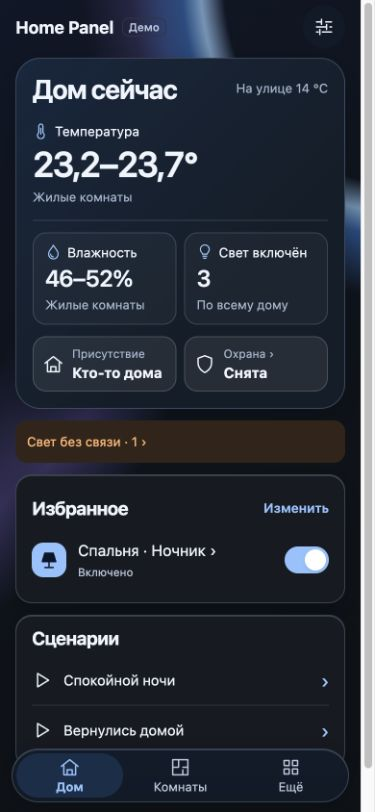
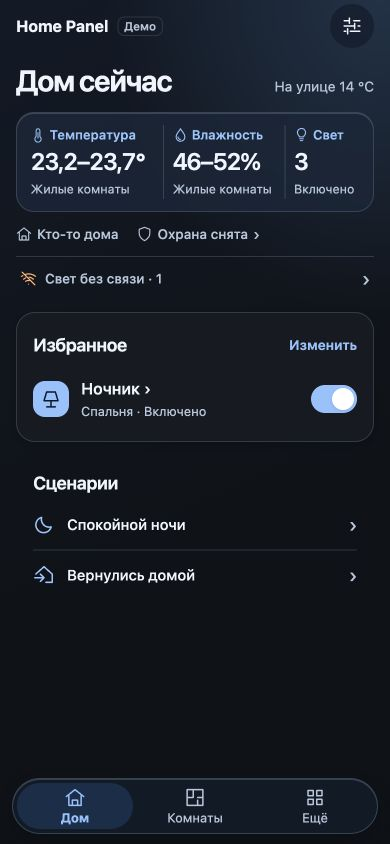
Облегчить сводку дома и выровнять визуальную иерархию на телефоне
Свести показания в одну адаптивную строку, согласовать сводку со светлым и тёмным оформлением, сохранить открытие деталей и подчеркнуть состояние тревоги. Сгруппировать избранный свет по названию и комнате, уточнить пиктограммы сценариев, обновить мобильные снимки и сравнение.

diff --git a/moy-dom.js b/moy-dom.js
@@ -131,6 +131,9 @@ const iconPaths = {
   power: "M14 2 5 14h6l-1 8 9-13h-6z",
   settings: "M3 6h6m5 0h7 M3 12h11m5 0h2 M3 18h2m5 0h11 M9 3v6m6 0v6M7 15v6",
   presence: "M2 11l10-8 10 8 M5 10v11h14V10 M9 21v-6h6v6",
+  offline: "M3 3l18 18 M2 9l2-1m4-2a16 16 0 0 1 14 3 M5 13a11 11 0 0 1 3-2m5-1a12 12 0 0 1 6 3 M8 16a6 6 0 0 1 5-1 M12 20h.01",
+  "mdi:weather-night": "M19.8 14.6A8.5 8.5 0 0 1 9.4 4.2 8.5 8.5 0 1 0 19.8 14.6z",
+  "mdi:home-import-outline": "M3 11 12 3l9 8v9h-7 M8 11l4 4-4 4 M12 15H2",
   shield: "M12 2l8 3v6c0 5-4 9-8 11-4-2-8-6-8-11V5z",
   scene: "M7 4l13 8-13 8z",
   rooms: "M3 3h18v18H3z M3 12h7m0-9v9m5 3v6m0-9h6",
@@ -341,6 +344,7 @@ class MoyDomPanel extends HTMLElement {
     const rooms = this.zones.flatMap(zone => zone.rooms);
     const metric = (name, icon, open, read, featured = false) => {
       const cell = button("", open, "home-metric" + (featured ? " featured" : ""));
+      cell.dataset.kind = icon;
       const label = element("span", "metric-label", name);
       label.prepend(pictogram(icon));
       const value = element("strong");
@@ -349,8 +353,10 @@ class MoyDomPanel extends HTMLElement {
       strip.append(cell);
       this.bindings.push(() => {
         const [reading, caption] = this.connected ? read() : ["—", "Нет связи"];
+        value.classList.toggle("word-value", reading === "По комнатам");
         setText(value, reading);
         setText(note, caption);
+        if (icon === "lights") cell.setAttribute("aria-label", "Свет по всему дому · " + reading + " · " + caption);
       });
     };
     for (const [key, name, icon, suffix] of [["temperature", "Температура", "climate", "°"], ["humidity", "Влажность", "humidity", "%"]]) {
@@ -369,10 +375,10 @@ class MoyDomPanel extends HTMLElement {
       }, key === "temperature");
     }
     const lights = [...this.allLights.values()];
-    if (lights.length) metric("Свет включён", "lights", () => this.openLights(lights), () => {
+    if (lights.length) metric("Свет", "lights", () => this.openLights(lights), () => {
       const states = lights.map(({id}) => this.state(id)?.state);
       const known = states.some(state => state === "on" || state === "off");
-      return [known ? String(states.filter(state => state === "on").length) : "—", known ? "По всему дому" : "Нет показаний"];
+      return [known ? String(states.filter(state => state === "on").length) : "—", known ? "Включено" : "Нет показаний"];
     });
     if (this.config.power_meter) metric(this.config.power_scope === "home" ? "Мощность дома" : "Мощность прибора", "power", () => this.moreInfo(this.config.power_meter), () => {
       const meter = this.state(this.config.power_meter);
@@ -389,7 +395,7 @@ class MoyDomPanel extends HTMLElement {
       const empty = element("p", "muted");
       list.append(empty);
       const rows = lights.map(({id, name, room}) => {
-        const row = this.lightView(id, room + " · " + name, "", false);
+        const row = this.lightView(id, name, room, false);
         list.append(row);
         return {id, row};
       });
@@ -426,7 +432,7 @@ class MoyDomPanel extends HTMLElement {
     if (presence) {
       const value = element("strong");
       const item = element("div", "status-item");
-      item.append(pictogram("presence"), element("span", "", "Присутствие"), value);
+      item.append(pictogram("presence"), element("span", "sr-only", "Присутствие"), value);
       statuses.append(item);
       this.bindings.push(() => {
         const state = this.connected && this.state(presence)?.state;
@@ -436,14 +442,16 @@ class MoyDomPanel extends HTMLElement {
     if (alarm) {
       const item = button("", () => this.moreInfo(alarm), "status-item");
       const value = element("strong");
-      item.append(pictogram("shield"), element("span", "", "Охрана ›"), value);
+      item.append(pictogram("shield"), value, element("span", "chevron", "›"));
       statuses.append(item);
-      const labels = { disarmed:"Снята", armed_away:"Под охраной", armed_home:"Охрана дома",
+      const labels = { disarmed:"Охрана снята", armed_away:"Под охраной", armed_home:"Охрана дома",
         armed_night:"Ночная охрана", armed_vacation:"В отпуске", armed_custom_bypass:"Частичная охрана",
         arming:"Постановка", disarming:"Снятие", pending:"Задержка входа", triggered:"Тревога" };
       this.bindings.push(() => {
         const entity = this.state(alarm);
         setText(value, this.connected && available(entity) ? labels[entity.state] || entity.state : "Нет данных");
+        item.setAttribute("aria-label", "Состояние охраны · " + value.textContent);
+        item.classList.toggle("alarm-active", this.connected && entity?.state === "triggered");
         item.disabled = !this.connected || !entity;
       });
     }
@@ -451,10 +459,12 @@ class MoyDomPanel extends HTMLElement {
     main.append(hero);
     const lights = [...this.allLights.values()];
     const issues = button("", () => this.openLights(lights, true), "issues");
+    const problem = element("span");
+    issues.append(pictogram("offline"), problem, element("span", "chevron", "›"));
     this.bindings.push(() => {
       const count = lights.filter(({id}) => !["on", "off"].includes(this.state(id)?.state)).length;
       issues.hidden = !this.connected || !count;
-      setText(issues, "Свет без связи · " + count + "  ›");
+      setText(problem, "Свет без связи · " + count);
     });
     main.append(issues);
     if (lights.length || this.quick.length) {
@@ -466,17 +476,18 @@ class MoyDomPanel extends HTMLElement {
       const ids = this.favoriteIds(catalog);
       for (const id of ids) {
         const {room, name} = catalog.get(id);
-        favorites.append(this.lightView(id, room ? room + " · " + name : name, "", false));
+        favorites.append(this.lightView(id, name, room, false));
       }
       if (!ids.length) favorites.append(element("p", "muted", "Закрепите светильники для быстрого доступа."));
       side.append(favorites);
     }
     if (this.config.home_scenes?.length) {
-      const scenes = element("section", "room");
+      const scenes = element("section", "room scenes");
       scenes.append(element("h2", "", "Сценарии"));
       for (const [id, name] of this.config.home_scenes) {
         const row = button("", () => this.moreInfo(id), "detail-row");
-        row.append(pictogram("scene"), element("span", "scene-name", name), element("span", "chevron", "›"));
+        const icon = this.state(id)?.attributes?.icon;
+        row.append(pictogram(iconPaths[icon] ? icon : "scene"), element("span", "scene-name", name), element("span", "chevron", "›"));
         scenes.append(row);
         this.bindings.push(() => { row.disabled = !this.connected || !this.state(id) || this.state(id).state === "unavailable"; });
       }
@@ -678,7 +689,7 @@ class MoyDomPanel extends HTMLElement {
     this.dispatchEvent(new CustomEvent("hass-more-info", { detail: { entityId }, bubbles: true, composed: true }));
   }
 
-  lightView(id, name, roomName, showDimmer = true) {
+  lightView(id, name, roomName, inRoom = true) {
     const wrapper = element("div", "device");
     const row = element("div", "light-row");
     const label = element("div", "light-label");
@@ -694,7 +705,7 @@ class MoyDomPanel extends HTMLElement {
     custom.hidden = true;
     icon.append(fallback, custom);
     const details = button("", () => this.moreInfo(id), "device-details");
-    details.setAttribute("aria-label", name + " — подробности");
+    details.setAttribute("aria-label", [roomName, name, "подробности"].filter(Boolean).join(" — "));
     details.append(icon, element("span", "", name + " ›"), state);
     label.append(details, toggle);
     row.append(label);
@@ -738,10 +749,11 @@ class MoyDomPanel extends HTMLElement {
       icon.classList.toggle("lit", this.connected && on);
       toggle.checked = on;
       toggle.disabled = !this.connected || !available(entity) || pending;
-      setText(state, pending ? "Ожидание ответа" : !this.connected ? "Нет связи" : !available(entity) ? "Недоступно" : on ? "Включено" : "Выключено");
+      const status = pending ? "Ожидание ответа" : !this.connected ? "Нет связи" : !available(entity) ? "Недоступно" : on ? "Включено" : "Выключено";
+      setText(state, !inRoom && roomName ? roomName + " · " + status : status);
       const modes = entity?.attributes?.supported_color_modes;
       const dimmable = domainOf(id) === "light" && Array.isArray(modes) && modes.some(mode => ["brightness", "color_temp", "hs", "xy", "rgb", "rgbw", "rgbww", "white"].includes(mode));
-      dimmer.hidden = !showDimmer || !dimmable || !on || !available(entity);
+      dimmer.hidden = !inRoom || !dimmable || !on || !available(entity);
       range.disabled = !this.connected || pending;
       if (this.shadowRoot.activeElement !== range || pending) {
         const brightness = numeric(entity?.attributes?.brightness);
@@ -1190,34 +1202,97 @@ dialog::backdrop {background:#0b111ab5}
 .favorite-option input {accent-color:var(--olive);width:20px;height:20px}
 dialog .primary {margin-top:14px}
 .home-grid .room,.room-console > .lighting,.room-console > .climate-card {background:var(--paper)}
-.home-grid .hero {border-radius:26px;padding:clamp(18px,3vw,30px);border:1px solid var(--edge);
-  background:linear-gradient(135deg,#1a2c46,#15202e 65%);box-shadow:0 12px 32px var(--shade)}
-.home-grid h1 {font-size:clamp(1.75rem,3vw,2.5rem)}
-.home-readings {display:grid;grid-template-columns:repeat(2,minmax(0,1fr));gap:8px;margin:20px 0 12px}
-.home-metric {display:grid;align-content:start;justify-items:start;gap:5px;text-align:left;min-width:0;padding:11px 12px;border:1px solid #adbfdc38;border-radius:14px;color:var(--hero-text);background:#ffffff09}
-.home-metric:hover,.status-item:is(button):hover {background:#ffffff15}
-.home-metric .metric-label {display:flex;align-items:center;gap:6px;font-size:.86rem}
-.metric-label .pictogram {width:17px;height:17px;color:#a9ceff}
-.home-metric small {font-size:.81rem;color:var(--hero-muted);line-height:1.35}
-.home-metric strong {font-size:clamp(1.5rem,4vw,2rem);font-weight:560;line-height:1.15;letter-spacing:-.035em;font-variant-numeric:tabular-nums;overflow-wrap:anywhere}
-.home-metric.featured {grid-column:1/-1;background:transparent;border:0;border-bottom:1px solid #adbfdc38;border-radius:0;padding:0 0 15px;margin-bottom:4px}
-.home-metric.featured strong {font-size:clamp(2.25rem,8vw,3.25rem);font-weight:520;letter-spacing:-.05em}
-.home-metric:not(.featured):last-child:nth-child(4) {grid-column:1/-1}
-.home-grid .home-status {margin:12px 0 0}
-.home-grid .hero .weather {font-size:.82rem}
-.room-console .climate-card p + p {margin-top:6px}
-.issues {display:block;width:100%}
-@media(max-width:780px) {
-  .toolbar {min-height:56px;margin-bottom:4px}
-  .home-grid .hero {padding:17px}
-  .navigation button {font-size:.8rem}
-  .home-grid .room {padding:12px 16px}
+/* The summary reads as one instrument. The surrounding actions have their own surfaces. */
+.shell {
+  --summary-fill:rgb(255 255 255 / .8); --summary-rule:rgb(57 82 121 / .19);
+  --summary-ink:#16253e; --summary-note:#435671; --summary-blue:#255f9d;
+  background-image:radial-gradient(ellipse 84% 45% at 97% 0%,#bfd6f0 0%,transparent 83%),
+    linear-gradient(160deg,#e9eff8,var(--surface) 66%);
 }
-.home-status {display:grid;grid-template-columns:repeat(auto-fit,minmax(min(125px,100%),1fr));gap:8px;margin:16px 0}
-.status-item {display:grid;grid-template-columns:22px 1fr;align-content:center;align-items:center;gap:4px 8px;text-align:left;padding:10px;
-  background:rgb(255 255 255 / .07);border:1px solid rgb(255 255 255 / .17);border-radius:14px;color:var(--hero-text)}
-.status-item svg {grid-row:span 2}.status-item span {font-size:.75rem;color:var(--hero-muted)}
-.status-item strong {font-size:.94rem}.scene-name {flex:1}
+.shell[data-theme=dark] {
+  --summary-fill:rgb(29 43 63 / .85); --summary-rule:rgb(207 224 248 / .17);
+  --summary-ink:#f2f6ff; --summary-note:#c0cde0; --summary-blue:#a6ccff;
+  background-image:radial-gradient(ellipse 84% 45% at 97% 0%,#263951 0%,transparent 83%),
+    linear-gradient(155deg,#121b2b,var(--surface) 67%);
+}
+.home-grid .hero {padding:0;border:0;border-radius:0;background:transparent;color:var(--ink)}
+.hero-row {align-items:baseline;flex-wrap:wrap;gap:4px 12px}
+.hero-row:first-child {align-items:baseline}
+.home-grid h1 {font-size:clamp(1.85rem,3vw,2.45rem);font-weight:630;letter-spacing:-.045em;line-height:1.12}
+.home-grid .weather {color:var(--summary-note);font-size:.86rem;margin:0}
+.home-readings {
+  display:grid;grid-auto-columns:minmax(0,1fr);grid-auto-flow:column;align-items:stretch;
+  margin-top:15px;padding:12px 5px;border:1px solid var(--summary-rule);border-radius:18px;
+  background:var(--summary-fill);color:var(--summary-ink);box-shadow:inset 0 1px 0 var(--shine);
+  container-type:inline-size;
+}
+.home-readings:empty {display:none}
+.home-readings:has(.featured):has(> :nth-child(3)) {grid-template-columns:minmax(0,1.35fr) minmax(0,1.16fr) minmax(0,.80fr)}
+.home-readings:has(> :nth-child(4)) {grid-auto-flow:row;row-gap:10px}
+.home-readings > :nth-child(4) {grid-column:1/-1}
+.home-metric {
+  display:grid;justify-items:start;align-content:start;min-width:0;gap:5px;min-height:48px;
+  padding:2px clamp(6px,2.5cqw,16px);border:0;text-align:left;background:transparent;
+}
+.home-metric + .home-metric {border-inline-start:1px solid var(--summary-rule)}
+.home-metric:nth-child(4) {grid-template-columns:auto 1fr;align-items:baseline;column-gap:12px;
+  border:0;border-top:1px solid var(--summary-rule);padding-top:10px}
+.home-metric:nth-child(4) small {grid-column:1/-1}
+.metric-label {display:flex;align-items:center;gap:4px;color:var(--summary-blue);font-size:.81rem;font-weight:550;line-height:1.2}
+.metric-label .pictogram {width:15px;height:15px}
+.home-metric strong {font-size:clamp(1.2rem,6.8cqw,1.75rem);font-variant-numeric:tabular-nums;
+  letter-spacing:-.047em;font-weight:570;line-height:1.2;overflow-wrap:anywhere}
+.home-metric strong.word-value {font-size:1rem;letter-spacing:0}
+.home-metric[data-kind=lights] {padding-inline-end:2px}
+.home-metric small {font-size:.77rem;line-height:1.3;color:var(--summary-note);overflow-wrap:anywhere}
+.home-status {display:flex;align-items:center;flex-wrap:wrap;gap:0 18px}
+.status-item {display:inline-flex;align-items:center;gap:5px;border:0;background:transparent;
+  padding:0;min-height:44px;color:var(--summary-note);font-size:.84rem;text-align:left}
+.status-item .pictogram {height:16px;width:16px}
+.status-item strong {font-weight:500}.status-item .chevron {color:inherit;font-size:1rem}
+.status-item.alarm-active {color:var(--warn);font-weight:700}
+.issues {display:flex;align-items:center;gap:8px;width:100%;background:transparent;color:var(--summary-note);
+  border-top:1px solid var(--summary-rule);border-radius:0;font-weight:500;padding:0 4px;min-height:44px}
+.issues .pictogram {width:17px;height:17px;color:var(--warn)}
+.issues .chevron {margin-left:auto;color:var(--summary-note)}
+.home-grid > .stack:first-child {gap:0}
+.home-grid > .stack + .stack {gap:18px}
+.home-grid .room {border:1px solid var(--summary-rule);box-shadow:0 2px 10px var(--shade);border-radius:19px;padding:12px 18px}
+.home-grid .room h2 {font-size:1.12rem;font-weight:620;letter-spacing:-.025em}
+.home-grid .room > h2 {margin:5px 0 6px}
+.home-grid .room .device-details {font-weight:550}
+.home-grid .room .device-state {font-size:.8rem;font-weight:400}
+.home-grid .detail-row {border:0;min-height:50px;font-weight:500}
+.home-grid .detail-row + .detail-row {border-top:1px solid var(--line)}
+.home-grid .detail-row > .pictogram {color:var(--summary-blue);width:22px;height:22px}
+.home-grid .scene-name {flex:1}
+.home-grid .room.scenes {background:transparent;border-color:transparent;box-shadow:none;backdrop-filter:none;-webkit-backdrop-filter:none}
+.home-grid .scenes > h2 {margin-bottom:6px}
+.home-grid .device-icon.lit .pictogram {fill:none}
+.home-grid .detail-row .chevron {color:var(--muted)}
+.room-console .climate-card p + p {margin-top:6px}
+@media(hover:hover) {
+  .home-metric:hover,.status-item:is(button):hover,.issues:hover {background:var(--accent);border-radius:8px}
+}
+@media(max-width:780px) {
+  .toolbar {min-height:52px;margin-bottom:12px}
+  .toolbar > strong {font-size:1rem}
+  .navigation button {font-size:.8rem}
+  .home-grid > .stack + .stack {gap:14px}
+  .home-grid .room {padding:10px 16px}
+}
+@media(max-width:355px) {
+  .home-readings:has(.featured):has(> :nth-child(3)) {grid-template-columns:minmax(0,1.26fr) minmax(0,1fr) minmax(4.8rem,.82fr)}
+}
+@container (max-width:300px) {
+  .metric-label .pictogram {display:none}
+  .home-metric {padding-inline:4px}
+  .home-metric small {font-size:.75rem}
+  .home-metric strong {font-size:1rem}
+}
+@media(prefers-reduced-transparency:reduce),(prefers-contrast:more) {
+  .shell,.shell[data-theme=dark] {--summary-fill:var(--paper);background:var(--surface)}
+}
 @media(prefers-reduced-motion:reduce) {.switch::before {transition:none}}
 `;
 

diff --git a/demo/demo.js b/demo/demo.js
@@ -61,8 +61,8 @@ add("switch.desk_outlet", "Розетка у стола", "off", "living");
 add("button.restart_sensor", "Перезапустить датчик", "unknown", "hall");
 add("cover.bedroom_blinds", "Шторы спальни", "closed", "bedroom");
 add("binary_sensor.occupied", "Присутствие", "on", null);
-add("scene.night", "Спокойной ночи", "unknown", null);
-add("scene.arrival", "Вернулись домой", "unknown", null);
+add("scene.night", "Спокойной ночи", "unknown", null, {icon:"mdi:weather-night"});
+add("scene.arrival", "Вернулись домой", "unknown", null, {icon:"mdi:home-import-outline"});
 add("scene.evening", "Вечерний свет", "unknown", null);
 add("script.goodnight", "Спокойной ночи", "off", null);
 add("sun.sun", "Солнце", "above_horizon", null);
@@ -160,5 +160,6 @@ card.addEventListener("hass-more-info", event => {
   } else if (state.entity_id === "alarm_control_panel.home") {
     details.querySelector("p").textContent = "Охрана снята. Это демонстрация статуса Alarmo.";
   }
+  details.dataset.theme = panel.theme;
   details.showModal();
 });

diff --git a/demo/index.html b/demo/index.html
@@ -11,6 +11,10 @@
     moy-dom-dashboard, moy-dom-panel { display: block; min-height: 100dvh; }
     dialog { max-width: calc(100% - 24px); border: 0; border-radius: 12px; padding: 20px; }
     #details {width:min(360px,calc(100% - 24px));font:inherit;color:#f3f6fa;background:#202b3c;border:1px solid #657083;border-radius:18px;}
+    #details[data-theme=light] {color-scheme:light;color:#18253a;background:#f7f9fd;border-color:#b4c5da}
+    #details[data-theme=dark] {color-scheme:dark}
+    #details h2 {font-size:1.25rem;margin:0 0 12px}
+    #details p {line-height:1.45}
     #details form {display:flex;gap:8px;flex-wrap:wrap} #details button {min-height:44px;padding:0 12px;border:0;border-radius:10px}
     dialog::backdrop { background: #0008; }
   </style>

diff --git a/README.md b/README.md
@@ -8,6 +8,8 @@ Home Panel — кастомный дашборд для Home Assistant с обз
 
 ![Главная панель на телефоне](demo/home-mobile.jpg)
 
+[Сравнение мобильной сводки до и после](demo/home-comparison.jpg)
+
 ## Установка
 
 1. Скачайте `moy-dom.js` и скопируйте его в `/config/www/`.
